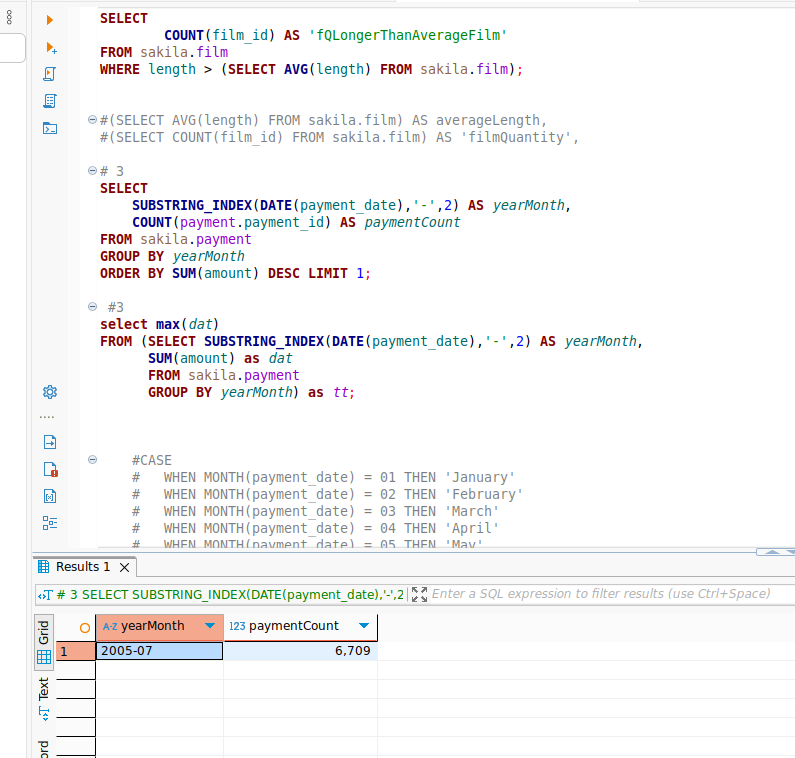
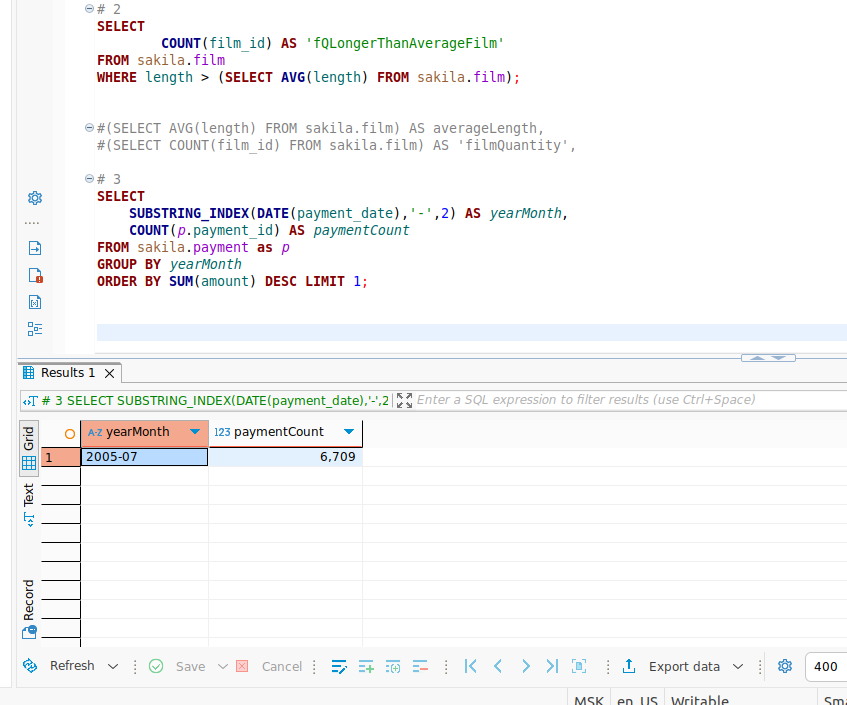
04-SQL2 9th

diff --git a/relationalDB/04-SQL2/04-SQL2.md b/relationalDB/04-SQL2/04-SQL2.md
@@ -44,9 +44,14 @@
 
    Получите информацию, за какой месяц была получена наибольшая сумма платежей, и добавьте информацию по количеству аренд за этот месяц.
 
-   Через MAX не получается, кидаю ссылку на 2 варианта 3-го задания. Не понимаю, как мне интегрировать второй вариант в первый, может есть какие-то примеры, чтобы посмотреть?
-
-[testScriptLink](https://github.com/ugegkonst/sdb-homeworks/blob/aff69a698de54b678b8ea51e1cf4b1210c5a7d5a/relationalDB/04-SQL2/scripts/04-SQL2_test.sql)
+```sql
+SELECT
+	SUBSTRING_INDEX(DATE(payment_date),'-',2) AS yearMonth,
+	COUNT(p.payment_id) AS paymentCount
+FROM sakila.payment as p
+GROUP BY yearMonth
+ORDER BY SUM(amount) DESC LIMIT 1;
+```
 
 ![task 3](https://github.com/ugegkonst/sdb-homeworks/blob/9f5fb2ac5555aa5c8249a1bb3f37ed1964b875df/relationalDB/04-SQL2/img/04-SQL2-3.png)
 
